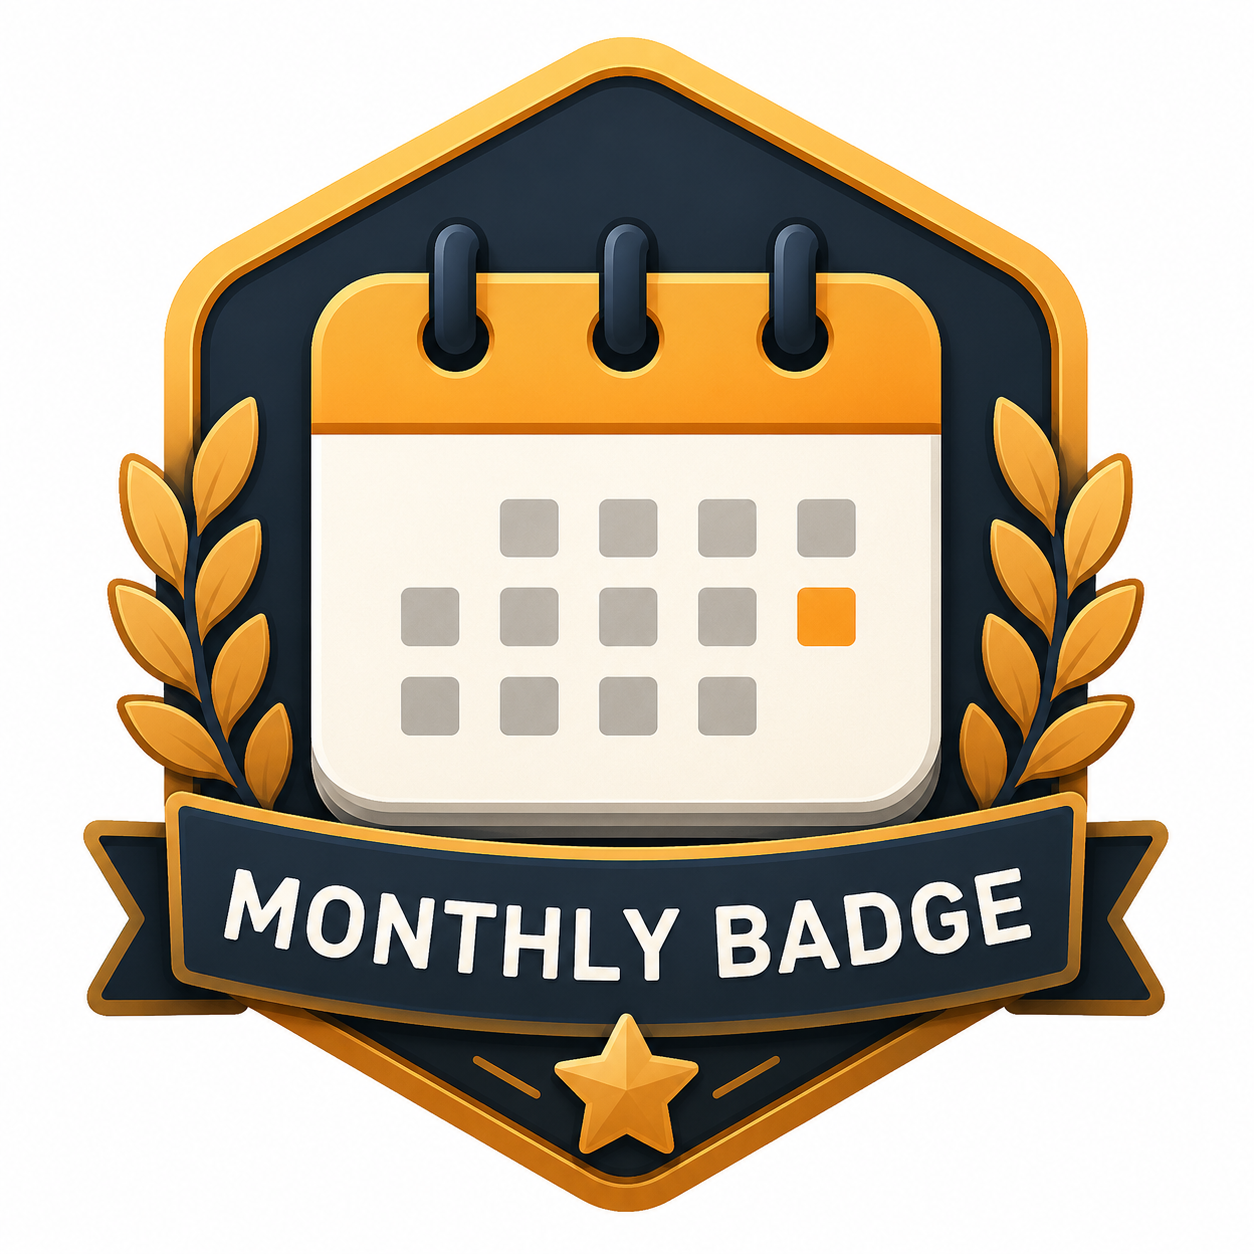
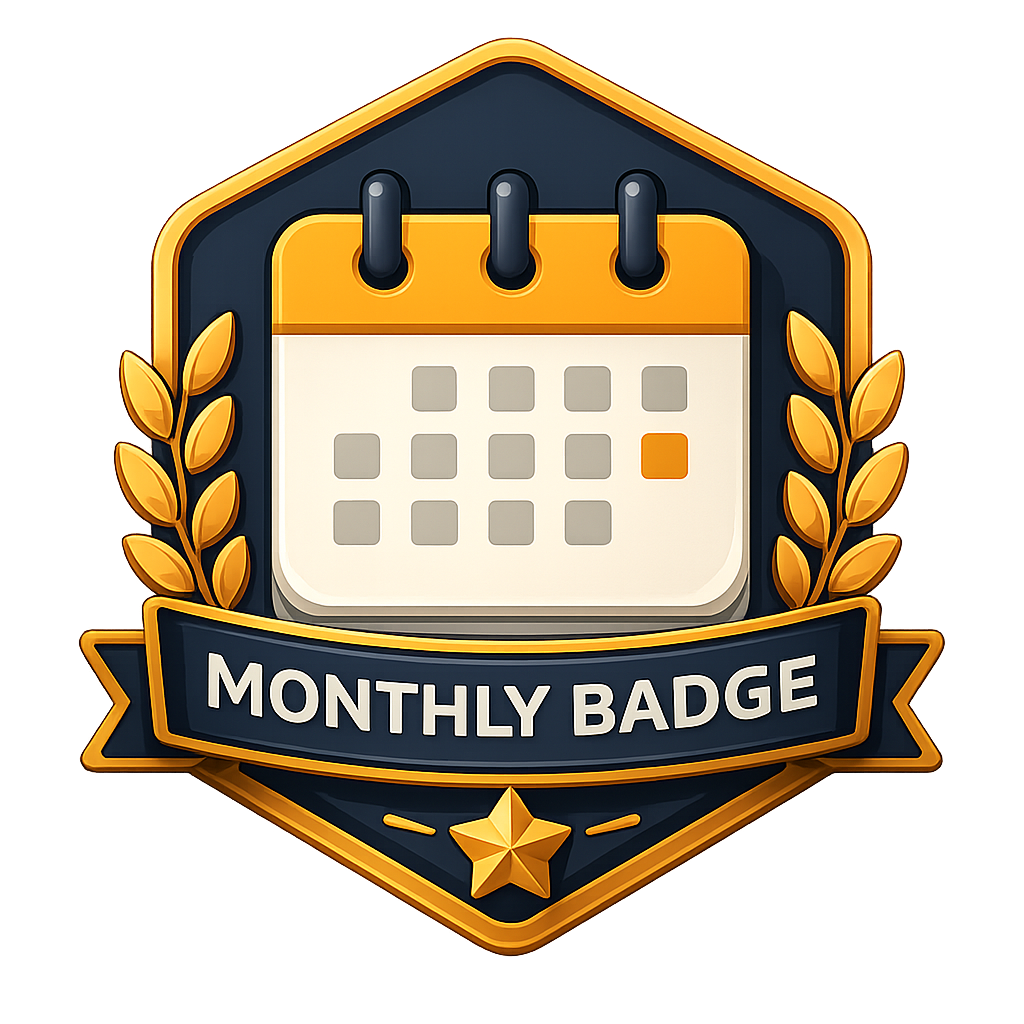
Shift all api calls and in app.jsx

diff --git a/src/components/Search.jsx b/src/components/Search.jsx
@@ -1,36 +1,44 @@
 import React from "react";
 
-const Search = ({ search, setSearch }) => {
+const Search = ({ search, setSearch, handleApi }) => {
   return (
-    <div>
-      <label className="input">
-        <svg
-          className="h-[1em] opacity-50"
-          xmlns="http://www.w3.org/2000/svg"
-          viewBox="0 0 24 24"
-        >
-          <g
-            strokeLinejoin="round"
-            strokeLinecap="round"
-            strokeWidth="2.5"
-            fill="none"
-            stroke="currentColor"
+    <>
+      <div>
+        <label className="input">
+          <svg
+            className="h-[1em] opacity-50"
+            xmlns="http://www.w3.org/2000/svg"
+            viewBox="0 0 24 24"
           >
-            <circle cx="11" cy="11" r="8"></circle>
-            <path d="m21 21-4.3-4.3"></path>
-          </g>
-        </svg>
-        <input
-          type="search"
-          required
-          placeholder="Search"
-          value={search}
-          onChange={(e) => {
-            setSearch(e.target.value);
-          }}
-        />
-      </label>
-    </div>
+            <g
+              strokeLinejoin="round"
+              strokeLinecap="round"
+              strokeWidth="2.5"
+              fill="none"
+              stroke="currentColor"
+            >
+              <circle cx="11" cy="11" r="8"></circle>
+              <path d="m21 21-4.3-4.3"></path>
+            </g>
+          </svg>
+          <input
+            type="search"
+            required
+            placeholder="Search"
+            value={search}
+            onChange={(e) => {
+              setSearch(e.target.value);
+            }}
+          />
+        </label>
+      </div>
+      <button
+        onClick={() => handleApi()}
+        className="btn btn-active btn-warning"
+      >
+        Anylyise
+      </button>
+    </>
   );
 };
 

diff --git a/src/App.jsx b/src/App.jsx
@@ -7,14 +7,36 @@ import Stats from "./components/Stats";
 import Badges from "./components/Badges";
 const App = () => {
   const [search, setSearch] = useState("");
+  const [profile, setProfile] = useState({});
+  const [stats, setStats] = useState({});
+  const [badge, setBadge] = useState({ badgesCount: 0, badges: [] });
+
+  const handleApi = async () => {
+    if (search.trim() === "") return;
+    const fetchProfile = await fetch(
+      `https://alfa-leetcode-api.onrender.com/${search}`,
+    );
+    const profileData = await fetchProfile.json();
+    setProfile(profileData);
+    const fetchStats = await fetch(
+      `https://alfa-leetcode-api.onrender.com/${search}/profile`,
+    );
+    const statsData = await fetchStats.json();
+    setStats(statsData);
+    const fetchBadges = await fetch(
+      `https://alfa-leetcode-api.onrender.com/${search}/badges`,
+    );
+    const badgesData = await fetchBadges.json();
+    setBadge(badgesData);
+  };
   return (
     <div>
       <Navbar />
       <Hero />
-      <Search search={search} setSearch={setSearch} />
-      <Profile search={search} />
-      <Stats search={search} />
-      <Badges search={search} />
+      <Search search={search} setSearch={setSearch} handleApi={handleApi} />
+      <Profile search={search} profile={profile} />
+      <Stats search={search} stats={stats} />
+      <Badges search={search} badge={badge} />
     </div>
   );
 };

diff --git a/src/components/Badges.jsx b/src/components/Badges.jsx
@@ -1,18 +1,6 @@
 import React, { useEffect, useState } from "react";
 
-const Badges = ({ search }) => {
-  const [badge, setBadge] = useState({ badgesCount: 0, badges: [] });
-  useEffect(() => {
-    const apiCall = async () => {
-      const fetchData = await fetch(
-        `https://alfa-leetcode-api.onrender.com/${search}/badges`,
-      );
-      const data = await fetchData.json();
-      setBadge(data);
-    };
-    apiCall();
-  }, [search]);
-
+const Badges = ({ search, badge }) => {
   return (
     <>
       {badge.badgesCount > 0 && (
@@ -23,6 +11,7 @@ const Badges = ({ search }) => {
             {badge.badges.map((item) => {
               return (
                 <img
+                  className="h-12"
                   key={item.id}
                   src={
                     item.icon.startsWith("https")

diff --git a/src/components/Profile.jsx b/src/components/Profile.jsx
@@ -1,18 +1,6 @@
 import React, { useEffect, useState } from "react";
 
-const Profile = ({ search }) => {
-  const [profile, setProfile] = useState({});
-  useEffect(() => {
-    const apiCall = async () => {
-      const fetchData = await fetch(
-        `https://alfa-leetcode-api.onrender.com/${search}`,
-      );
-      const data = await fetchData.json();
-      setProfile(data);
-    };
-    apiCall();
-  }, [search]);
-
+const Profile = ({ search, profile }) => {
   return (
     <div>
       <img src={profile.avatar} className="rounded-full" alt="" />

diff --git a/src/components/Stats.jsx b/src/components/Stats.jsx
@@ -1,18 +1,6 @@
 import React, { useEffect, useState } from "react";
 
-const Stats = ({ search }) => {
-  const [stats, setStats] = useState({});
-  useEffect(() => {
-    const apiCall = async () => {
-      const fetchData = await fetch(
-        `https://alfa-leetcode-api.onrender.com/${search}/profile`,
-      );
-      const data = await fetchData.json();
-      setStats(data);
-    };
-    apiCall();
-  }, [search]);
-
+const Stats = ({ search, stats }) => {
   return (
     <>
       {stats.totalSolved !== undefined && (